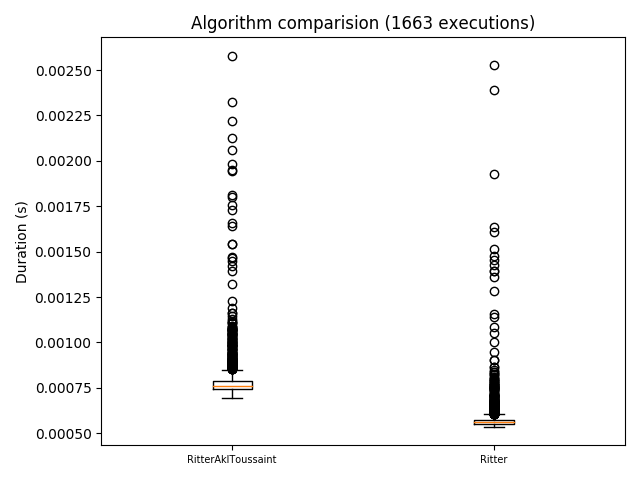
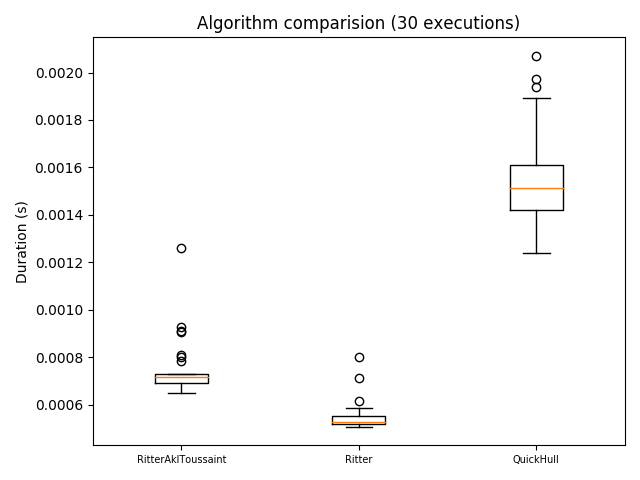
feat: add QuickHull + minifix glob alacon

diff --git a/src/algorithms.py b/src/algorithms.py
@@ -53,6 +53,9 @@ class Point(object):
     def coords(self):
         return (self.x, self.y)
 
+    def to_nparray(self):
+        return np.array([self.x, self.y])
+
 
 class PointSet(list):
     @staticmethod
@@ -60,6 +63,10 @@ class PointSet(list):
         with open(file, newline='') as csvfile:
             pointreader = csv.reader(csvfile, delimiter=' ', )
             return PointSet([Point(int(row[0]), int(row[1])) for row in pointreader])
+
+    @staticmethod
+    def from_nparray(array):
+        return PointSet([Point(int(row[0]), int(row[1])) for row in array])
 
     def x_col(self):
         return [p.x for p in self]
@@ -71,6 +78,9 @@ class PointSet(list):
         # plot the points as dots
         plt.scatter(self.x_col(), self.y_col(),
                     marker='+', zorder=3, color=color)
+
+    def to_nparray(self):
+        return np.array([p.to_nparray() for p in self])
 
 
 def akl_toussaint(points: PointSet):
@@ -130,7 +140,7 @@ def akl_toussaint(points: PointSet):
             rest.append(p)
             continue
 
-    return rest, Poly([top, right, bottom, left])
+    return rest, Poly(PointSet([top, right, bottom, left]))
 
 
 class Area(ABC):
@@ -164,9 +174,9 @@ class Circle(Area):
 
 
 class Poly(Area):
-    def __init__(self, points, name=''):
+    def __init__(self, points: PointSet, name=''):
         super().__init__(name)
-        self.points = PointSet(points)
+        self.points = points
 
     def plot(self, plt: plt, color='g'):
         xs = self.points.x_col()
@@ -253,3 +263,27 @@ class AklToussaint(Algorithm):
         points.plot(plt, 'r')
         area.plot(plt)
         return area
+
+
+link = lambda a,b: np.concatenate((a,b[1:]))
+edge = lambda a,b: np.concatenate(([a],[b]))
+
+class QuickHull(Algorithm):
+    def execute(self, points):
+        sample = points.to_nparray()
+        def dome(sample, base):
+            h, t = base
+            dists = np.dot(sample-h, np.dot(((0, -1), (1, 0)), (t-h)))
+            outer = np.repeat(sample, dists > 0, 0)
+            if len(outer):
+                pivot = sample[np.argmax(dists)]
+                return link(dome(outer, edge(h, pivot)),
+                            dome(outer, edge(pivot, t)))
+            else:
+                return base
+        if len(sample) > 2:
+            axis = sample[:, 0]
+            base = np.take(sample, [np.argmin(axis), np.argmax(axis)], 0)
+            return Poly(PointSet.from_nparray(link(dome(sample, base), dome(sample, base[::-1]))), self.name)
+        else:
+            return Poly(points, self.name)

diff --git a/src/datasets.py b/src/datasets.py
@@ -13,6 +13,7 @@ from typing import List, Dict
 
 #: Index of the last file after cleaning
 NB_FILES = 1663
+ALL_FILES = ['samples/test-%s.points' % i for i in range(NB_FILES)]
 
 
 def download() -> bool:
@@ -22,7 +23,7 @@ def download() -> bool:
         bool: True if it had to be downloaded.
 
     """
-    if os.path.isdir('samples') and len(all_files()) > 0:
+    if os.path.isdir('samples') and len(ALL_FILES) > 0:
         _clean_files()
         return False
     url = 'http://www-apr.lip6.fr/~buixuan/files/algav2019/Varoumas_benchmark.zip'
@@ -46,11 +47,6 @@ def _clean_files() -> None:
                   (NB_FILES), 'samples/test-1.points')
     except FileNotFoundError:
         pass
-
-
-def all_files() -> List[str]:
-    """Get all dataset file names."""
-    return glob('samples/*')
 
 
 def get_from_file(file: str) -> PointSet:
@@ -113,7 +109,7 @@ def benchmark(algos: List[Algorithm], begin=0, end=NB_FILES) -> Dict:
         'result': [],
         'duration': []
     })
-    for file in all_files()[begin:end]:
+    for file in ALL_FILES[begin:end]:
         points = get_from_file(file)
         for algo in algos:
             start = time()

diff --git a/src/main.py b/src/main.py
@@ -2,21 +2,24 @@
 
 import datasets
 import matplotlib.pyplot as plt
-from algorithms import AklToussaint, RitterAklToussaint, Ritter
+from algorithms import *
 from pprint import pprint
 
 datasets.download()
 
 algos = [
     RitterAklToussaint(),
-    Ritter()
+    Ritter(),
+    QuickHull(),
 ]
+
 bench = datasets.benchmark(algos, 0, 30)
 pprint(bench)
 
 datasets.plot(2, [
     bench['RitterAklToussaint']['result'][2],
     bench['Ritter']['result'][2],
+    bench['QuickHull']['result'][2],
 ])
 
 AklToussaint().execute(datasets.get(2))

diff --git a/README.md b/README.md
@@ -7,6 +7,7 @@ Subject: <https://www-apr.lip6.fr/~buixuan/files/algav2019/projet_indiv2.pdf>
 | Minimal circle approximation | ![minimal circle approximation](docs/minimal-circle-approx.png) |
 | Ritter's bounding circle     | ![bounding circle ritter](docs/bounding-circle-ritter.png)      |
 | Akl-Toussaint filter         | ![akl toussaint filter](docs/akl-toussaint-filter.png)          |
+| Combined                     | ![combined](docs/combined-hulls.png)                            |
 
 **Duration**  
 ![duration comparision](docs/comparision-duration.png)
